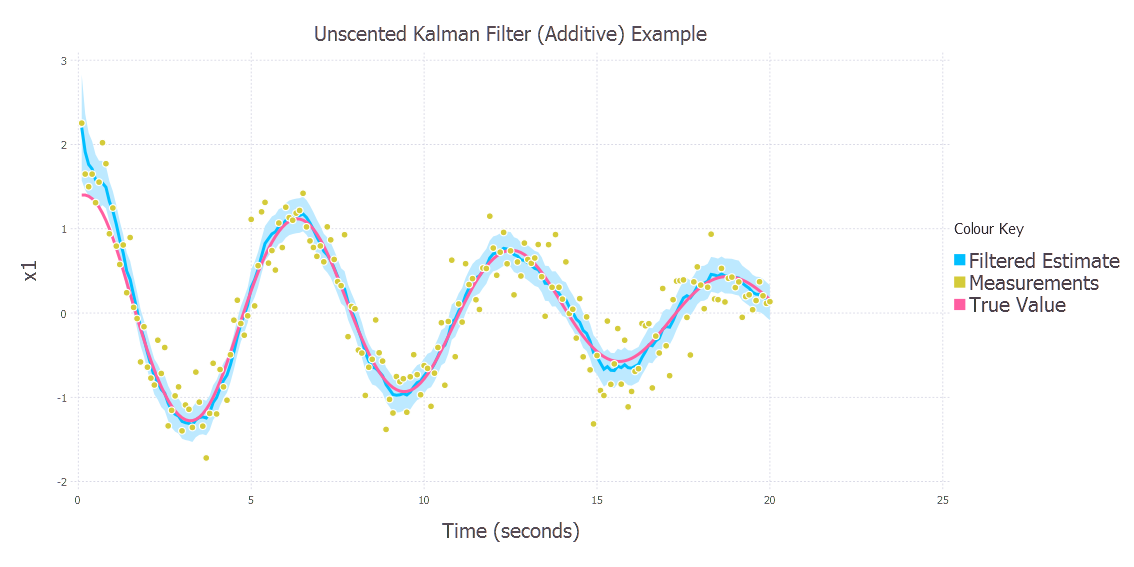
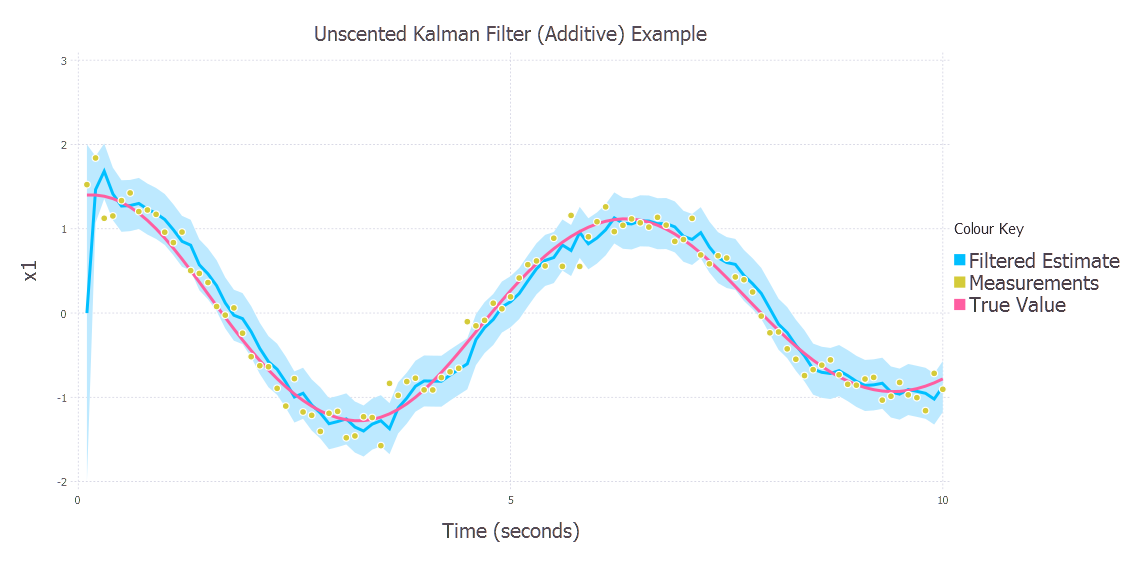
add URTS smoother to the examples list along with correspinding figures

Changed region(s): [[0.0617, 0.2099, 0.8333, 0.8095]]

diff --git a/examples/README_examples.md b/examples/README_examples.md
@@ -7,7 +7,7 @@ The *examples* directory contains scripts and IJulia notebooks for each Kalman F
 
 ###Examples
 
-####Basic Linear Kalman Filter and smoother - Voltage Example
+####Basic Linear Kalman Filter and Smoother - Voltage Example
 
 The [script](https://github.com/JonnyCBB/StateSpace.jl/blob/master/examples/LinearKalmanFilter_VoltageExample.jl) and the [notebook](https://github.com/JonnyCBB/StateSpace.jl/blob/master/examples/LinearKalmanFilter_VoltageExample.ipynb) describes a problem where a constant true voltage is measured with a noisy voltmeter. The results of the filter can be seen below: ![LKF filter](figures/LKF_filtered_plot.png) The StateSpace.jl package also allows to perform smoothing and the same example [script](https://github.com/JonnyCBB/StateSpace.jl/blob/master/examples/LinearKalmanFilter_VoltageExample.jl) and [notebook](https://github.com/JonnyCBB/StateSpace.jl/blob/master/examples/LinearKalmanFilter_VoltageExample.ipynb) demonstrates how to perform smoothing: ![LKF smoother](figures/LKF_smoothed_plot.png)
 
@@ -19,10 +19,12 @@ The [script](https://github.com/JonnyCBB/StateSpace.jl/blob/exampleREADME/exampl
 
 The [script](https://github.com/JonnyCBB/StateSpace.jl/blob/exampleREADME/examples/ExtendedKalmanFilter_LogisticGrowthExample.jl) and the [notebook](https://github.com/JonnyCBB/StateSpace.jl/blob/exampleREADME/examples/ExtendedKalmanFilter_LogisticGrowthExample.ipynb) describes a problem where a population evolves via the logistic growth law (sigmoid/S-shaped curve) so this is a non-linear example. We want to track the population over time given that we have noisy measurements of it. We also want to determine the growth rate even though we don't have any observations of the growth rate. These results can be see below for the population ![EKF control](figures/EKF_population_plot.png) and the growth rate ![EKF control](figures/EKF_growthrate_plot.png)
 
-####Unscented Kalman Filter (Additive noise) - Van der Pol Oscillator Example
+####Unscented Kalman Filter and Smoother(Additive noise) - Van der Pol Oscillator Example
 
-The [script](https://github.com/JonnyCBB/StateSpace.jl/blob/master/examples/UnscentedKalmanFilter_DampedOscillatorExample.jl) and the [notebook](https://github.com/JonnyCBB/StateSpace.jl/blob/master/examples/UnscentedKalmanFilter_DampedOscillatorExample.ipynb) describes a problem where we are concerned with obtaining the position of a Van der Pol Oscillator over time. The example produces the following result
+The [script](https://github.com/JonnyCBB/StateSpace.jl/blob/master/examples/UnscentedKalmanFilter_DampedOscillatorExample.jl) and the [notebook](https://github.com/JonnyCBB/StateSpace.jl/blob/master/examples/UnscentedKalmanFilter_DampedOscillatorExample.ipynb) describes a problem where we are concerned with obtaining the position of a Van der Pol Oscillator over time. The example produces the following result for the filter
 ![UKF additive](figures/UKFadditive_vanderpol_plot.png)
+and gives the following result after smoothing.
+![URTSS additive](figures/URTSSadditive_vanderpol_plot.png)
 
 ####Missing Observations - Deflating balloon example
 
